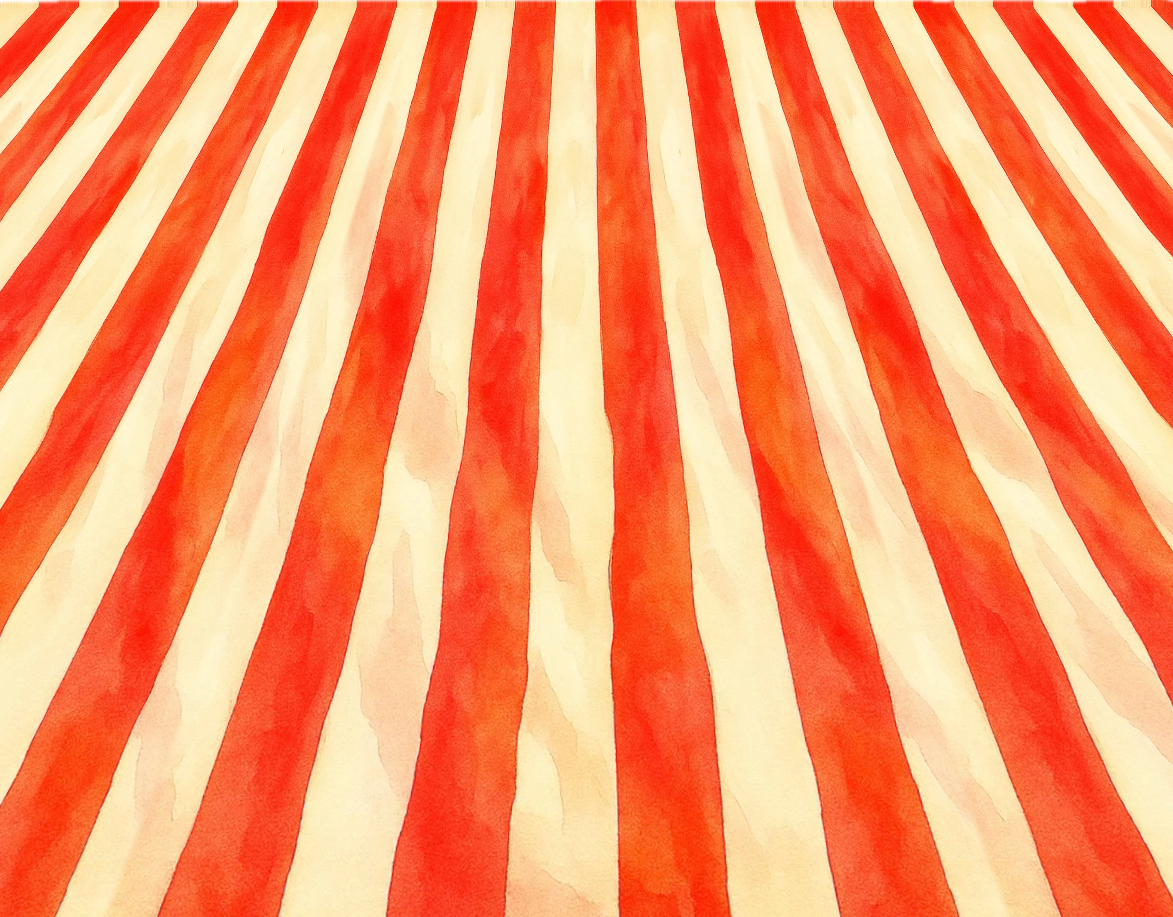
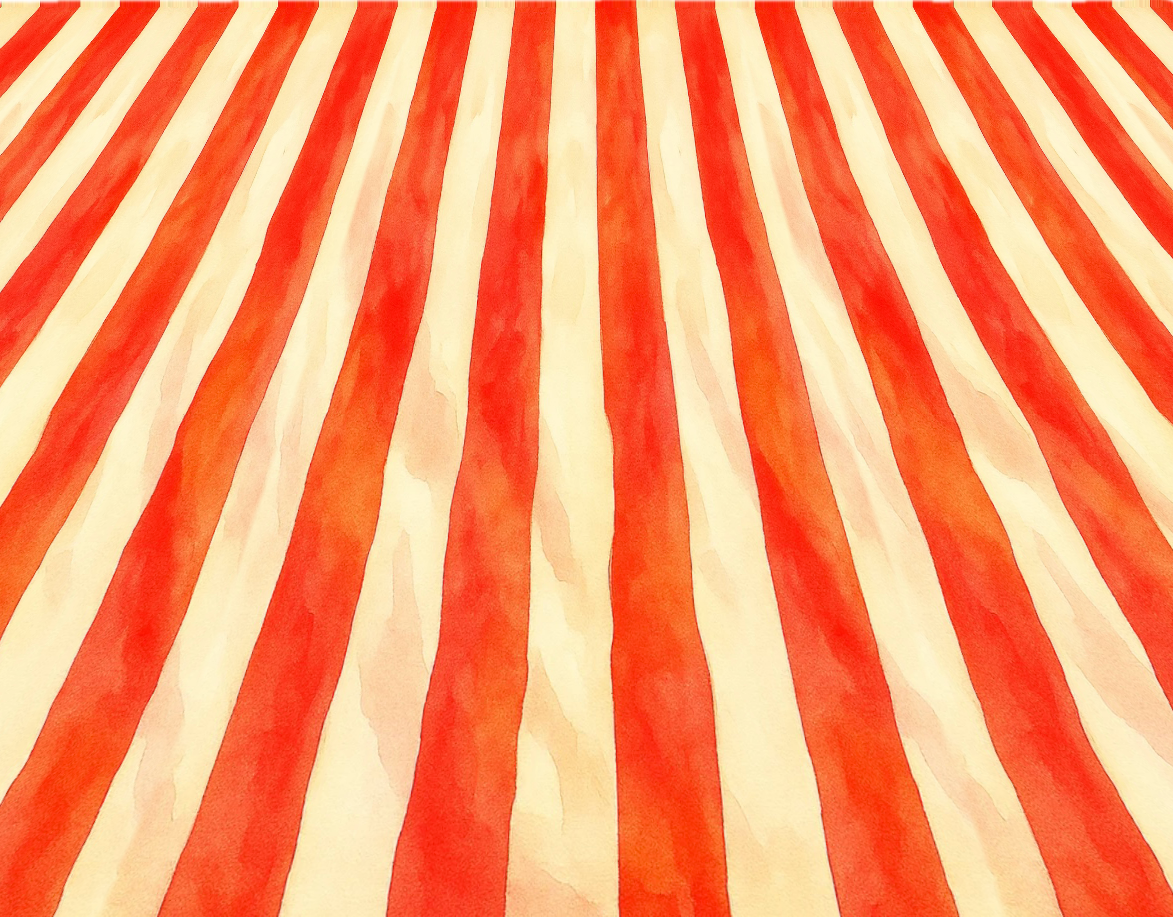
Owner's 26.10.12 test pass: cloth joins, Girl's happy head, two-line caption card, tutorial as day 0
- Tablecloth: the joins of the repeated stripe pattern followed a straight-line fit of a cream stripe and left it
  near the bottom, cutting a wedge into a red stripe at the left and right; they now follow the real stripe centre
  row by row (Store/artkit/cloth_perspective2.py)
- Girl happy sprite: her head was drawn upright with the bun to the right while the neutral pose leans it left,
  so it jumped when she smiled; the head is turned 10 degrees and moved to the neutral pose's place, body 4 px
  left, blended at the neck; pixels only moved (Store/artkit/girl_head_align.py, original kept)
- Tutorial caption card: grows 72 px per extra line, so two lines sit inside the card (TutorialDirector.Say)
- Tutorial is day 0: a new game opens straight in the tutorial (ClickPlay goes to GameSceneOne when the tutorial
  is due) with the header reading Day 0, and Let's go leads to the map, where day 1 is the next star. Before, the
  map came first and the tutorial ran inside day 1.

diff --git a/Assets/Scripts/Tutorial/TutorialDirector.cs b/Assets/Scripts/Tutorial/TutorialDirector.cs
@@ -22,6 +22,9 @@ public class TutorialDirector : MonoBehaviour
     /// Set by the Replay button before the scene reloads.
     public static bool ReplayRequested;
 
+    public const string GameScene = "GameSceneOne";
+    public const string MapScene = "Map";
+
     public static bool IsDue(SessionManager sm)
     {
         if (ReplayRequested) return true;
@@ -60,6 +63,7 @@ public class TutorialDirector : MonoBehaviour
         orderSystem = os;
         customerManager = cm;
         ReplayRequested = false;
+        if (lm != null && lm.levelInfoText != null) lm.levelInfoText.text = "Day 0";   // the tutorial is day 0, not counted
         BuildUi();
         StartCoroutine(Run());
     }
@@ -275,7 +279,13 @@ public class TutorialDirector : MonoBehaviour
             SessionManager.Instance.MarkTutorialSeen();
         }
 
-        Reload();
+        // Day 0 is over: on to the map, where day 1 is the next star (12 October; it used to reload into day 1)
+        Time.timeScale = 1f;
+        if (AudioManager.Instance != null) AudioManager.Instance.StopMusic();
+        if (SceneTransitionManager.Instance != null)
+            SceneTransitionManager.Instance.TransitionToScene(MapScene);
+        else
+            SceneManager.LoadScene(MapScene);
     }
 
     private void OnReplay()
@@ -303,6 +313,10 @@ public class TutorialDirector : MonoBehaviour
     {
         caption.text = text;
         caption.gameObject.SetActive(true);
+        // The card grows for a second line (owner, 12 October: two lines did not sit well on the one-line card)
+        caption.ForceMeshUpdate();
+        var lines = Mathf.Max(1, caption.textInfo.lineCount);
+        captionBox.sizeDelta = new Vector2(1000f, 200f + (lines - 1) * 72f);
     }
 
     private IEnumerator PointAtWorld(Vector3 world)

diff --git a/Assets/Scripts/Buttons/ClickPlay.cs b/Assets/Scripts/Buttons/ClickPlay.cs
@@ -48,6 +48,8 @@ public class ClickPlay : MonoBehaviour, IPointerDownHandler, IPointerUpHandler
 
         if (AudioManager.Instance != null) AudioManager.Instance.StopMusic();
 
-        SceneTransitionManager.Instance.TransitionToScene(_sceneName);
+        // A new game opens with the tutorial (day 0) before the map ever shows; the tutorial ends on the map
+        var scene = TutorialDirector.IsDue(SessionManager.Instance) ? TutorialDirector.GameScene : _sceneName;
+        SceneTransitionManager.Instance.TransitionToScene(scene);
     }
 }

diff --git a/Docs/MANUAL.md b/Docs/MANUAL.md
@@ -248,3 +248,4 @@ When a session learns something a future session would need (a new recipe, a pat
 - **Patience** (`PatienceMeter.cs`, `PatienceDecor.cs`): the daisy is drawn from runtime textures at world (-1, 3.35); petals = `CustomerManager` sets `OrderSystem.patiencePetals = round(level time + PatienceDecor.BonusSeconds())`; `OrderSystem.DisplayOrder` shows it, `CompleteOrder` / `ExpireOrder` hide it. Decorations are Shop upgrades keyed `Decor_Vase` (-1.85, -0.75) and `Decor_Bouquet` (1.8, -0.6), sprites in `Resources/Decor`, placed by `LevelManager.ApplyLevelSettings`. Cards added by `Docs/tools/add_decor_shop.py`; `ShopManager` scroll limit is 3300.
 - **Art**: `Store/brushes/STYLE.md` has the owner's second reference (soft textured gouache, pastel). ChatGPT free tier gives about three images a day; typing into its box right after an upload loses the text, so wait a few seconds first. Gemini keeps a style but not a shape; for a same-shape repaint use ChatGPT with the original as image 1.
 - **Not done**: bread basket restyle (Gemini's two tries changed the shape), the lantern decoration, chapter 2 picks.
+- **Owner's 26.10.12 test pass (12 October, late)**: tablecloth joins now follow the real cream stripe (`cloth_perspective2.py`, no straight-line fit); the Girl's happy sprite had its head turned 10 degrees and moved so it sits like the neutral pose (`Store/artkit/girl_head_align.py`, original in `girl_orig/`); the tutorial caption card grows 72 px per extra line (`TutorialDirector.Say`); a new game goes straight to the tutorial as "Day 0" (`ClickPlay` → GameSceneOne when `TutorialDirector.IsDue`), and Let's go leads to the map instead of reloading into day 1. Open: the owner sees a small upward curve at the cloth's top edge that is not in the files; waiting for a screenshot.
